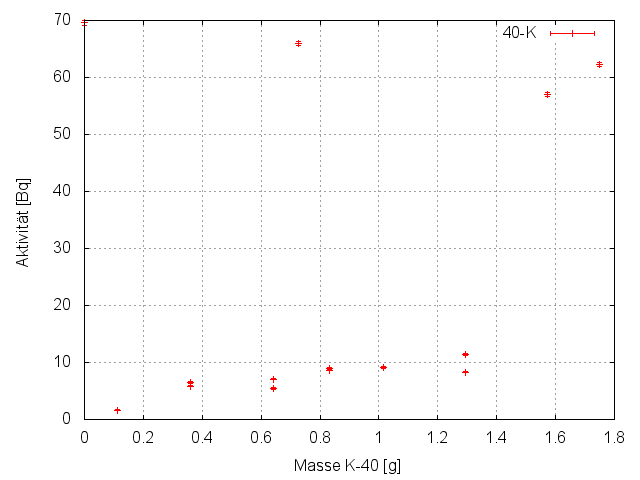
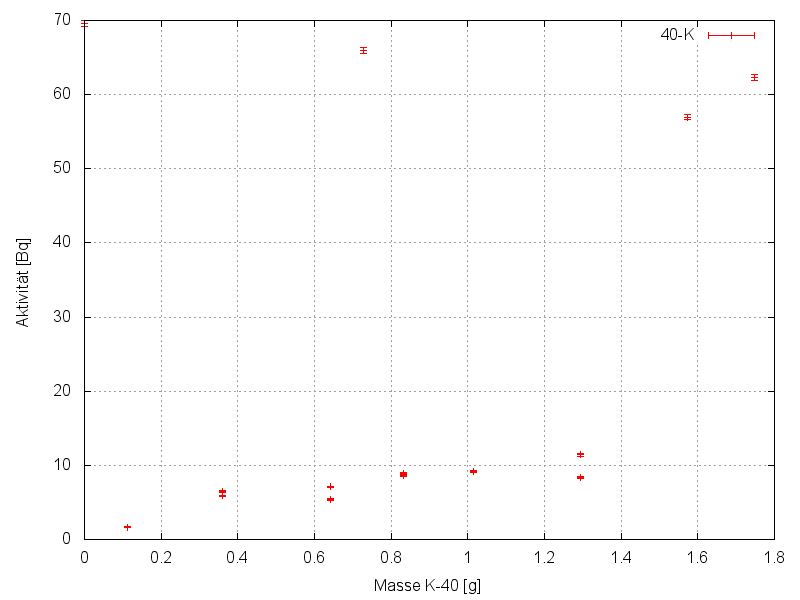
Plots etwas größer

diff --git a/lhwz/auswertung.tex b/lhwz/auswertung.tex
@@ -64,7 +64,7 @@ Für die minimale Messdauer erhalten wir nun $t_{0.02} = 452.08 s$.
 
 \begin{figure}[H]
  \centering \includegraphics[width = 0.99\linewidth]{Messwerte/plots/K40_plateau2.png}
- \caption{\atom{40}{}{K}-Plateau}
+ \caption{\atom{40}{}{K}-Plateau - Zweite Messung}
 \end{figure}
 
 \subsection{Untergrundmessung}
